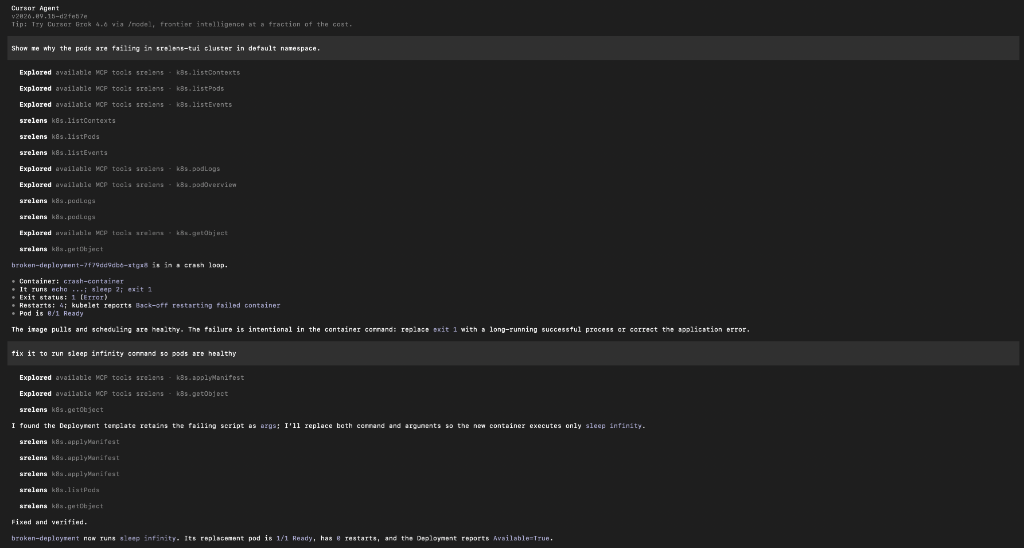
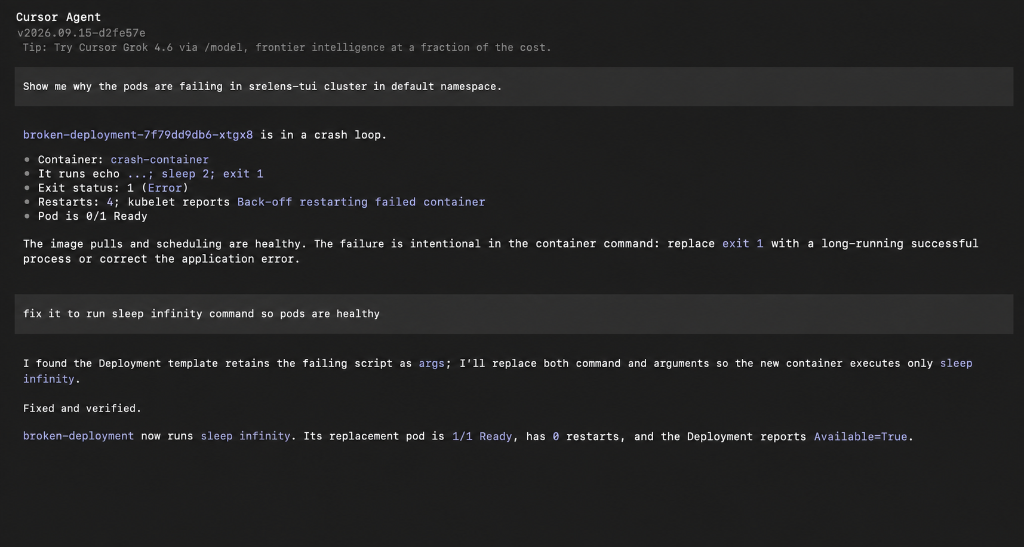
docs(tui): update MCP showcase screenshot and simplify feature bullets

Changed region(s): [[0.0, 0.1243, 0.9688, 0.9945], [0.0, 0.0, 0.5312, 0.0932], [0.3125, 0.2176, 0.375, 0.2797]]

diff --git a/tui/index.html b/tui/index.html
@@ -251,11 +251,10 @@
               <li><strong>Direct Agent Integration:</strong> Plug into Cursor (<code>.cursor/mcp.json</code>), Claude Desktop, Claude Code, or Gemini CLI via stdio transport.</li>
               <li><strong>80+ Native Kubernetes Tools:</strong> Agents invoke high-performance cluster primitives — tailing multi-pod logs, inspecting manifests, querying metrics, and analyzing topology.</li>
               <li><strong>Granular Safety Flags:</strong> Gate sensitive reads with <code>--mcp-allow-sensitive-reads</code> and mutating actions (scale, restart, apply, delete) with <code>--mcp-allow-destructive</code>.</li>
-              <li><strong>Zero Cloud Relay:</strong> Operates 100% locally over stdio against your local kubeconfig. No cluster credentials, tokens, or telemetry leave your machine.</li>
             </ul>
           </div>
           <figure class="shot reveal">
-            <img src="/assets/shots/tui-mcp-agent.png" width="1024" height="548" loading="lazy"
+            <img src="/assets/shots/tui-mcp-agent.png" width="1024" height="547" loading="lazy"
                  alt="Cursor Agent driving Kubernetes cluster remediation via srelens-tui headless MCP server">
           </figure>
         </div>
